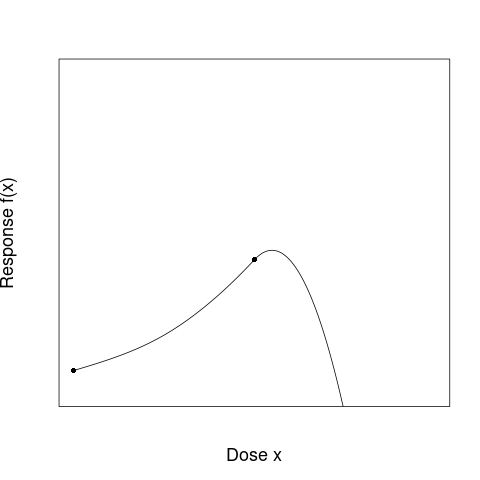
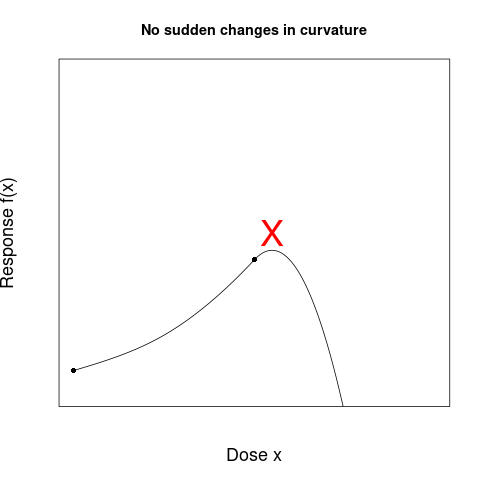
Updating splines lecture (work in progress)

Changed region(s): [[0.2812, 0.0312, 0.7812, 0.0938], [0.5312, 0.4375, 0.5938, 0.5312]]

diff --git a/lectures/splines/splines.tex b/lectures/splines/splines.tex
@@ -18,7 +18,7 @@
 %Beamer automatically puts the title up quite high where it appears
 %over the background image of IARC: Keep adding empty lines until
 %it appears in the right position
-\title{Everything you ever wanted to know about splines but were too afraid to ask}
+\title{Splines: flexible models for nonlinear effects}
 
 \author{Martyn Plummer}
 % - Use the \inst{?} command only if the authors have different
@@ -66,7 +66,7 @@
 
   \begin{itemize}
   \item Splines are a flexible class of models that can be helpful for
-    representing dose-response relationships in epidemiology
+    representing dose-response relationships in epidemiology.
   \item In this course we will be using spline models extensively.
   \item However, spline models are widely misunderstood.
   \item The purpose of this lecture is to give a conceptual background
@@ -75,25 +75,82 @@
   
 \end{frame}
 
-\section{Categorization and its discontents}
+\section{Categorization}
 
 \begin{frame}
-  \frametitle{Rinaldi et al, JNCI. 2014 Jun;106(6):dju097}
+  \frametitle{A linear model for the births data}
 
-  \begin{center}
-  \includegraphics[scale=0.09]{figures/thyroid.jpeg}
-  \end{center}
-  
+
 \end{frame}
 
 \begin{frame}
-  \frametitle{Rinaldi et al, JNCI. 2014 Jun;106(6):dju097}
+  \frametitle{A cubit model for the births data}
 
-  \begin{center}
-  \includegraphics[scale=0.20]{figures/thyroid-zoom.jpeg}
-  \end{center}
-  
 \end{frame}
+
+\begin{frame}
+  \frametitle{Categories}
+
+  Medical doctors like to think in terms of categories
+  \begin{itemize}
+  \item[preterm] $<37$ weeks
+  \item[early term] 37-39 weeks
+  \item[full term] 39-41 weeks
+  \item[late term] 41-42 weeks
+  \item[post term] $\geq 42$ weeks
+  \end{itemize}
+
+\end{frame}
+
+\begin{frame}
+  \frametitle{Fitting a categorical model}
+
+
+\end{frame}
+
+\begin{frame}
+  \frametitle{Plotting a categorical model}
+
+\end{frame}
+
+\begin{frame}
+  \frametitle{More categories}
+
+  The poor fit for the category ``preterm'' can be improved by adding
+  more categories:
+
+  \beging{itemize]
+  \item[extremely preterm] $<28$ weeks
+  \item[very preterm]  28-32 weeks
+  \item[moderate to late preterm] 32-37
+  \end{itemize}
+
+\end{frame}
+
+\begin{frame}
+  \frametitle{Plotting a more detailed categorical model}
+
+\end{frame}
+
+%\begin{frame}%
+
+%    \begin{columns}
+%    \begin{column}{6cm}
+%      \includegraphics[width=6cm]{figures/births-linear.pdf}
+%    \end{column}
+%    \begin{column}{6cm}
+%      \begin{itemize}
+%      \item Suppose %
+
+%      \item<2-> We can fill in the gaps (interpolate) by drawing a straight
+%        (linear) line between adjacent points
+%      \item<3-> This creates a mathematical function $f()$ which gives
+%        a response value $f(x)$ for every dose value $x$.
+%      \end{itemize}
+%    \end{column}
+%  \end{columns}
+
+
 
 \begin{frame}
   \frametitle{Statisticians against categorization}
@@ -124,126 +181,45 @@
   \end{itemize}
 
 \end{frame}
- 
-\section{Join the dots}
+
+\section{Interpolating splines}
 
 \begin{frame}
   \frametitle{Join the dots}
 
-  \begin{center}
-    \includegraphics<1>[height=6cm]{figures/join-the-dots.png}
-    \includegraphics<2>[height=7cm]{figures/join-the-dots-solved.png}
-  \end{center}
-  
-\end{frame}
-
-\begin{frame}
-  \frametitle{Linear interpolation}
-
-  \begin{columns}
-    \begin{column}{6cm}
-      \includegraphics<1>[scale=0.4]{figures/dose-response-points.png}
-      \includegraphics<2->[scale=0.4]{figures/dose-response-linear.png}
-    \end{column}
-    \begin{column}{6cm}
-      \begin{itemize}
-      \item Suppose a dose response curve is known exactly at certain
-        points
-      \item<2-> We can fill in the gaps (interpolate) by drawing a straight
-        (linear) line between adjacent points
-      \item<3-> This creates a mathematical function $f()$ which gives
-        a response value $f(x)$ for every dose value $x$.
-      \end{itemize}
-    \end{column}
-  \end{columns}
-    
-\end{frame}
-
-\begin{frame}
-  \frametitle{Why linear interpolation?}
-
-  Out of all possible curves that go through the observed points,
-  linear interpolation is the one that minimizes the penalty function
-  \[
-  \int \left( \frac{\partial f}{\partial x} \right)^2 dx
-  \]
-
-\end{frame}
-
-\begin{frame}
-  \frametitle{What does the penalty mean?}
-
-  \begin{columns}
-    \begin{column}{5cm}
-      \includegraphics[scale=0.4]{figures/penalty1.png}
-    \end{column}
-    \begin{column}{4cm}
-      \begin{itemize}
-      \item The contribution to the penalty at each point depends on the
-        steepness of the curve (represented by a colour gradient)
-      \item  Any deviation from a straight line between the two fixed
-        points will incur a higher penalty overall.
-      \end{itemize}
-    \end{column}
-  \end{columns}
-  
-\end{frame}
-
-\begin{frame}
-  \frametitle{Extrapolation}
-
     \begin{columns}
-    \begin{column}{5cm}
-      \includegraphics<1>[scale=0.4]{figures/extrap1.png}
-      \includegraphics<2>[scale=0.4]{figures/extrap2.png}
-      \includegraphics<3>[scale=0.4]{figures/extrap3.png}
-      \includegraphics<4>[scale=0.4]{figures/extrap4.png}
+    \begin{column}{6cm}
+      \includegraphics[scale=0.4]{figures/dose-response-points.png}
     \end{column}
-    \begin{column}{4cm}
+    \begin{column}{6cm}
       \begin{itemize}
-      \item Linear interpolation fits a linear dose-response curve exactly.
-      \item<3-> But it breaks down when we extrapolate.
+      \item Suppose that we have a set of $(x,y)$ points that we think
+        come from an underlying smooth relationship between $x$ and
+        $y$.
+      \item We want to join the dots in a way that is as smooth as
+        possible.
+      \item This turns out to be a mathematically well defined problem
+        with a unique solution.
       \end{itemize}
     \end{column}
   \end{columns}
 
 \end{frame}
 
-\begin{frame}
-  \frametitle{Why does linear interpolation break down?}
-
-    \begin{itemize}
-    \item The penalty function
-      \[
-      \int \left( \frac{\partial f}{\partial x} \right)^2 dx
-      \]
-      penalizes the steepness of the curve
-    \item Minimizing the penalty function gives us gives us the ``flattest''
-      curve that goes through the points.
-      \begin{itemize}
-      \item In between two observations the flattest curve is a
-        straight line.
-      \item Outside the range of the observations the flattest curve
-        is completely flat.
-      \end{itemize}
-    \end{itemize}
-
-\end{frame}
 
 \begin{frame}
   \frametitle{A roughness penalty}
 
   \begin{itemize}
-  \item If we want a fitted curve that extrapolates
-    a linear trend then we want to minimize the \alert<2>{curvature}.
+  \item Suppose $y = f(x)$ for some function $f(.)$.
+  \item The {\em roughness} of the curve in the interval $[a,b]$ is
+    meausured by the integral
     \[
-    \int \left(
-    \frac{\partial\alert<2>{^2} f}{\partial x\alert<2>{^2}}
-    \right)^2 dx
+      \int_a^b \left(
+        \frac{\partial\alert<2>{^2} f}{\partial x\alert<2>{^2}}
+      \right)^2 dx
     \]
-  \item Like the first penalty function but uses the \alert<2>{second
-    derivative} of $f$ (i.e. the curvature).
-  \item This is a roughness penalty.
+  \item We want the roughness of $f$ to be as small as possible.
   \end{itemize}
 \end{frame}
 
@@ -276,8 +252,8 @@
     \end{column}
     \begin{column}{6cm}
       \begin{itemize}
-        \item The smoothest curve that goes through the observed
-          points is a cubic spline.
+      \item The smoothest curve that goes through the observed
+        points is a cubic spline.
       \end{itemize}
     \end{column}
   \end{columns}
